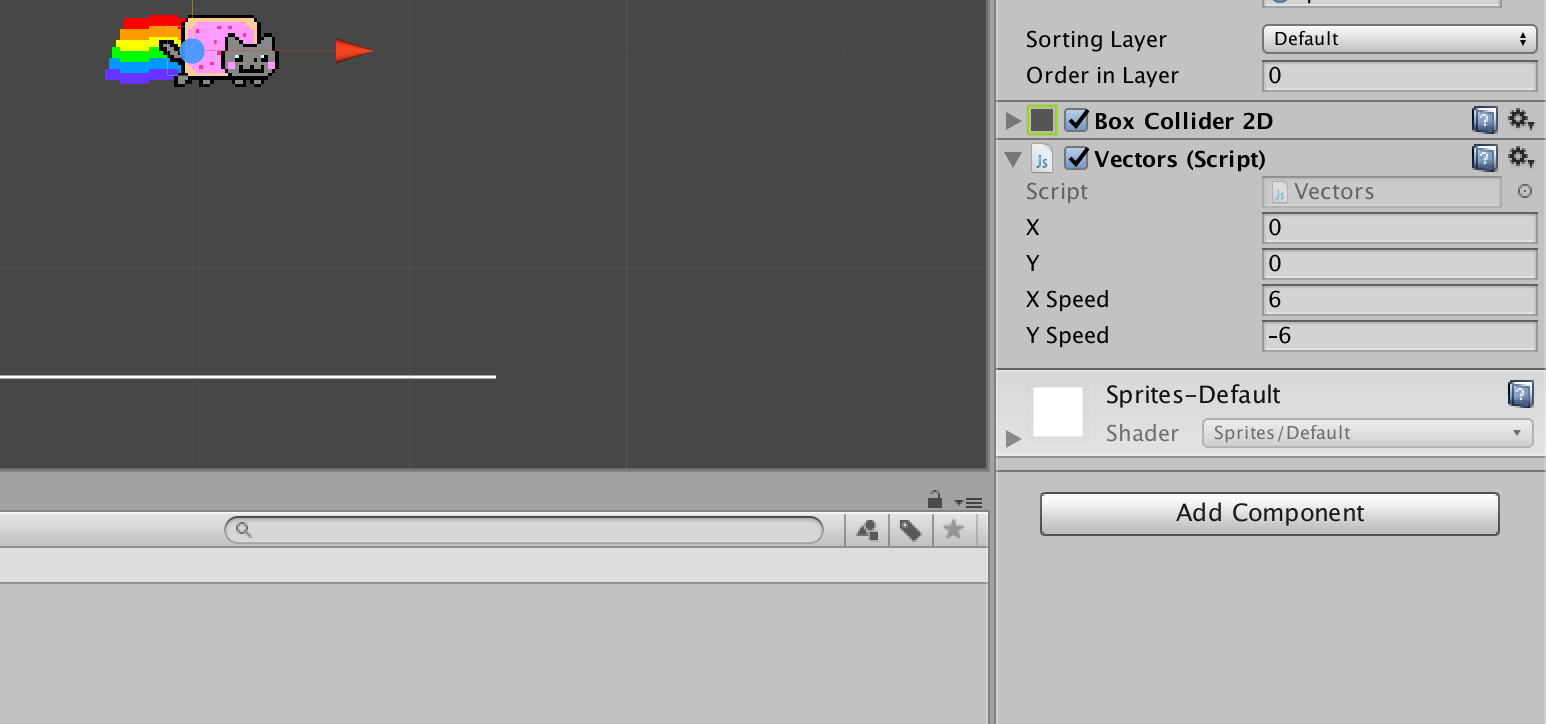
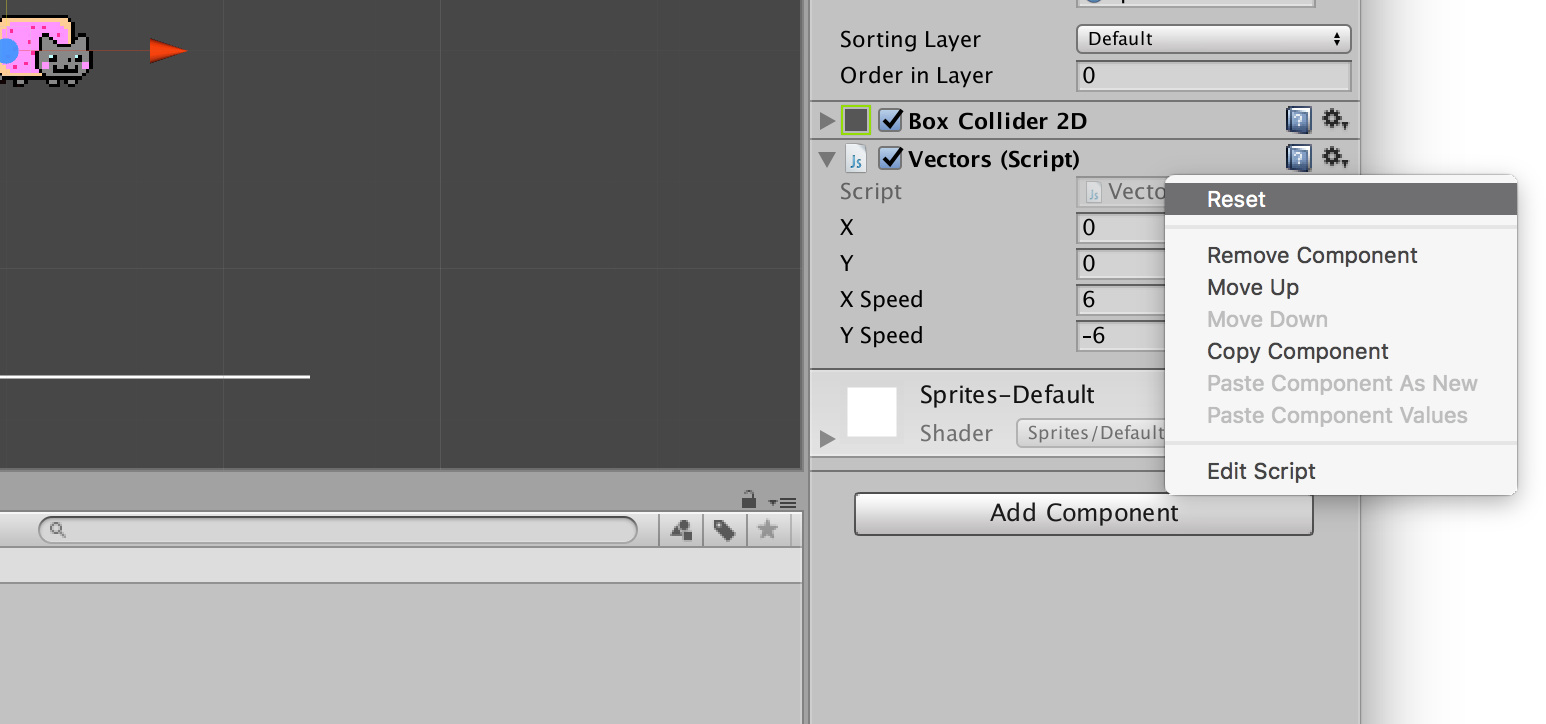
- complete unity vectors part 1 post

diff --git a/_posts/2017-06-20-an_introduction_to_vectors_using_unity--part_1.md b/_posts/2017-06-20-an_introduction_to_vectors_using_unity--part_1.md
@@ -8,11 +8,11 @@ categories: code physics unity
 <!-- unityscript error highlight conceal -->
 <style> .err {background-color: transparent !important} </style>
 
-Firstly: this post looks at vectors, *as in physics*, otherwise referred to as *Euclidean vectors* (not scalable graphics). Unity includes classes for dealing with 2- and 3-dimensional vectors, but the purpose of this tutorial is to understand vector concepts and math from the bottom up. You will write your own 2D vector code from scratch, and once this is complete, take a look at Unity's built-in vector features.
+Firstly: this post looks at vectors, *as in physics*, otherwise referred to as *Euclidean vectors* (not scalable graphics). Unity includes built-in features for dealing with 2- and 3-dimensional vectors, but the purpose of this tutorial is to understand vector concepts and math from the bottom up. You will write your own 2D vector code from scratch, and once this is complete, take a look at what Unity offers.
 
 ## Introduction
 
-To keep things as simple as possible, this tutorial makes use of *UnityScript*. Anyone familiar with the basics of Unity, and some programming language (be that JavaScript, Python, C#, or something similar) should grasp things just fine. To get started, all you'll need is [Unity](https://unity3d.com/), and:
+To keep things as simple as possible, this tutorial makes use of *UnityScript*. Anyone familiar with the basics of Unity, and some programming language (be it JavaScript, Python, C#, or something similar) should grasp things just fine. To get started, all you'll need is [Unity](https://unity3d.com/), and:
 
 * this <a href='{{ site.url }}/img/aitvuup1/nyan_cat.png' download>Nyan Cat graphic</a>;
 * this [font, named Wendy](http://www.dafont.com/wendy.font).
@@ -25,7 +25,7 @@ Begin by creating a new **2D** project in Unity:
   <img src="{{ site.url }}/img/aitvuup1/00-new-document.png" class="fullwidth" />
 </figure>
 
-Import the [nyan_cat.png]({{ site.url }}/img/aitvuup1/nyan_cat.png) graphic (you can do this by dragging the file into the **Assets** panel); then using the **Inspector** panel on the right, set the graphic's *Pixels per Unit* to `30` and *Filter Mode* to `Point`, and click **Apply**:
+Import the [nyan_cat.png]({{ site.url }}/img/aitvuup1/nyan_cat.png) graphic (you can do this by dragging the file into the **Assets** panel); then using the **Inspector** panel on the right, set the graphic's *Pixels per Unit* to `30` and *Filter Mode* to `Point`. Click **Apply** when you're done:
 
 <figure>
   <img src="{{ site.url }}/img/aitvuup1/01-nyan-cat-settings.png" class="fullwidth" />
@@ -37,7 +37,7 @@ Now add (drag) `nyan_cat` to the **Hierarchy** panel (at the top-left).
   <img src="{{ site.url }}/img/aitvuup1/02-nyan-cat-hierarchy.png" class="fullwidth" />
 </figure>
 
-Create a new sprite by right-clicking in the **Assets** panel and selecting **Create > Sprites > Square**. Drag this new square into the **Hierarchy** panel and name the instance "platform".
+Create a new sprite by right-clicking in the **Assets** panel and selecting **Create > Sprites > Square**. Drag this new square into the **Hierarchy** panel and name the instance "platform":
 
 <figure>
   <img src="{{ site.url }}/img/aitvuup1/03-create-platform.png" class="fullwidth" />
@@ -50,7 +50,7 @@ Scale and position the platform as per the screenshot below:
   <figcaption>Note that you'll need to be in <b>Scene</b> view to use the visual move & scale tools.</figcaption>
 </figure>
 
-At this point you can test the 'game' (using the play button), but nothing will happen. Nyan Cat and the platform remain suspended, seemingly frozen in the positions you have placed them.
+At this point you can test the scene (using the play button). You'll find that Nyan Cat and the platform remain suspended, seemingly frozen in the positions you have placed them.
 
 With your `nyan_cat` instance selected, using the **Add Component** button in the **Inspector** panel, select **Physics 2D > Rigidbody 2D**:
 
@@ -64,7 +64,7 @@ If you test/play the scene again, Nyan Cat will drop, falling straight through t
   <img src="{{ site.url }}/img/aitvuup1/06-platform-constraints.png" class="fullwidth" />
 </figure>
 
-Finally, add a **Box Collider 2D** component (also found within Physics 2D) to *both Nyan Cat and the platform*, so that they behave like 'solid' objects:
+Finally, add a **Box Collider 2D** component (also found within Physics 2D) to *both Nyan Cat and the platform* so that they behave like 'solid' objects:
 
 <figure>
   <img src="{{ site.url }}/img/aitvuup1/07-add-box-collider.png" class="fullwidth" />
@@ -75,17 +75,17 @@ Play the scene. Because of the Box Colliders, Nyan Cat and the platform are are 
 
 ## Adjusting the Scale for Easier Math
 
-Before getting into the code and mathy stuff, it's best to scale everything in order to make the numbers a bit more sane to work with. This step will allow you to avoid lengthy decimals in favour of single- and double-digit integers. You normally wouldn't scale things so dramatically -- and it'll incur some odd side-effects, as you'll come to see -- but understanding vectors will be easier using values like `[1, 5]` instead of `[0.0025, 0.0125]`.
+Before getting into the code and math stuff, it's best to scale everything in order to make the numbers a bit more sane to work with. This step will allow you to avoid lengthy decimals in favour of single- and double-digit integers. You normally wouldn't scale things so dramatically -- and it'll incur some odd side-effects, as you'll come to see -- but understanding vectors will be easier using values like `[1, 5]` instead of `[0.0025, 0.0125]`.
 
-Make the necessary adjustments to the following Hierarchy objects:
+Make the necessary adjustments to the following objects in the Hierarchy:
 
-* "Main Camera" -- in the **Camera** component, set the *Background* (Hex Colour) field to `00447700`, and the *Size* field to `2000`.
+* "Main Camera" -- in the **Camera** component, set the *Background* (Hex Colour) field to `00447700`, and the *Size* field to `2000`
 
 <figure>
   <img src="{{ site.url }}/img/aitvuup1/08-camera-settings.png" class="fullwidth" />
 </figure>
 
-* "nyan_cat" -- in the **Transform** component, set both the *X* and *Y* *Scale* to `500`.
+* "nyan_cat" -- in the **Transform** component, set both the *X* and *Y* *Scale* to `500`
 
 <figure>
   <img src="{{ site.url }}/img/aitvuup1/09-nyan-cat-scale.png" class="fullwidth" />
@@ -104,7 +104,7 @@ If you play the scene now, it should look somethig like this:
   <img src="{{ site.url }}/img/aitvuup1/11-test-scale.png" class="fullwidth" />
 </figure>
 
-However, everything now appears to be moving far more slowly, even though Nyan Cat is actually moving at the same speed as before. This is because (s)he is now 500 times larger -- about 500 m<sup>3</sup> in size in Unity physics! So, what was a cat falling a few meters, is something more like a massive meteor falling a few meters. In order to avoid your view being completely engulfed by Nyan Cat, you're now viewing things from far further away, and as a result, everything appears to be moving slower ... kind of like how an aeroplane high overhead crosses your field of view slower than a mobility scooter.
+However, everything now appears to be moving far more slowly, even though Nyan Cat is actually moving at the same speed as before. This is because (s)he is now 500 times larger -- about 500 m<sup>3</sup> in Unity physics! So, what was a cat falling a few meters, is something more like a massive meteor falling a few meters. In order to avoid your view being completely engulfed by Nyan Cat, you're now viewing things from far further away, and as a result, everything appears to be moving slower ... kind of like how an aeroplane high overhead crosses your field of view slower than a mobility scooter.
 
 Remember, though, this scaling makes the math simpler, so it's all relative and won't actually make any difference when you start writing some code to replace Unity's physics with your own; and on that point, the final step here is to remove the **Rigidbody 2D** and **Box Collider 2D** components from both Nyan Cat and the platform. You can do this using the menu under the cog icon:
 
@@ -141,9 +141,7 @@ function Update () {
 }
 {% endhighlight %}
 
-Test (play) to see if the code works.
-
-Now that Nyan Cat is falling, add some lateral movement:
+Test (play) to see if the code works. Now that Nyan Cat is falling, add some lateral movement using the same approach:
 
 {% highlight js %}
 ...
@@ -162,7 +160,7 @@ function Update () {
 }
 {% endhighlight %}
 
-You can edit the variables in the code, but Unity's Inspector makes things easier for you (and can be edited during play):
+You can experiment with the *X/Y Speed* values, but rather than editing variables in the code, use the Inspector as it allows you edit and monitor variables (even during play). To revert to the values defined in your code, use the *Reset* option under the cog menu:
 
 <figure>
   <img src="{{ site.url }}/img/aitvuup1/14-inspector-variables.png" class="fullwidth" />
@@ -170,17 +168,17 @@ You can edit the variables in the code, but Unity's Inspector makes things easie
 
 ## Adding the HUD
 
-While you can watch the Inspector to track any variable values, a Heads-Up Display adds a nice touch. Add the Wendy ([wendy.ttf](http://www.dafont.com/wendy.font)) file to your Assets. You can simply drag it into Unity. Then, from the menu bar, select **GameObject > UI > Text** to create a new Text component. Using the Inspector:
+While you can watch the Inspector to track any variable values, a Heads-Up Display adds a nice touch. Add the Wendy ([wendy.ttf](http://www.dafont.com/wendy.font)) file to your Assets. You can simply drag it into Unity. Then, from the menu bar, select **GameObject > UI > Text** to create a new Text component. Now, using the Inspector:
 
-* enter into the *Text* field: `wind: 5`, and on a new line, `gravity: -9.8`;
-* set the *Font* to `Wendy`, *Font Size* to `20`, *Vertical Overflow* to `Overflow`, and *Color* to white;
-* then adjust *width/height/PosX/PosY* under **Rect Transform** to place the HUD at top-left.
+* enter into the *Text* field: `wind: 5`, and on a new line, `gravity: -9.8`
+* set the *Font* to `Wendy`, *Font Size* to `20`, *Vertical Overflow* to `Overflow`, and *Color* to white
+* then adjust *width/height/PosX/PosY* under **Rect Transform** to place the HUD at top-left
 
 <figure>
   <img src="{{ site.url }}/img/aitvuup1/15-add-hud.png" class="fullwidth" />
 </figure>
 
-You'll soon control the HUD output dynamically, but for now, the HUD text simply matches the values declared in your code. The next step is to rewrite the code using a vector approach.
+In time you'll control the HUD output dynamically, but for now, the HUD text simply matches the values declared in your code. The next step is to rewrite the code using a vector approach.
 
 ## Vectors -- The Fundamentals
 
@@ -193,7 +191,7 @@ According to [Wikipedia](https://en.wikipedia.org/wiki/Euclidean_vector), a Eucl
 
 Nyan Cat has moved from position **A** to **B**, covering a distance of 10 units in the process. This distance can be referred to as a *magnitude*. It is a *scalar* value that represents quantity of 10 units. Here's the thing, though: the magnitude gives no indication of which direction Nyan Cat has travelled, you just know that it is rightward from what you've gleaned visually.
 
-Unlike scalars, *vectors* represent multiple quantities -- and are thus able to represent both a magnitude and direction. Consider this example:
+Scalars represent a single value, but *vectors* represent multiple values -- and are thus able to represent both a magnitude and direction. Consider this example:
 
 <figure>
   <img src="{{ site.url }}/img/aitvuup1/17-vector.svg" />
@@ -204,7 +202,7 @@ This example can be expressed as a vector using the following notation:
 
 <code>v&#8407; = (10, 4)</code>
 
-Note how an arrow is placed above the letter (a *v* in this case) to indicate it is a vector. You can perform various arithmetic using vectors. For example, additions are calculated by adding the x and y values of each vector:  
+Note how an arrow is placed above the letter (a *v* in this case) to indicate it is a vector quantity. You can perform various types of arithmetic using vectors. For example, additions are calculated by adding the horizontal and vertical values of each vector:  
 
 <code>a&#8407; = (4, 1)</code>  
 <code>b&#8407; = (6, 3)</code>  
@@ -217,11 +215,11 @@ Therefore, <code>c&#8407;</code> is equal to `(10, 4)`:
   <figcaption><code>(4, 1) + (6, 3) = (10, 4)</code></figcaption>
 </figure>
 
-Using this vector you can determine that the direction is up- and (more heavily so) right-ward. What's more, you can use the Pythagorean Theorem to calculate the magnitude, which forms the hypotenuse of a right-angled triangle. In Excel formula notation -- which is easier to express on a web-page -- the magnitude in this instance would be:  
+Using this vector you can determine that the direction is up- and (more heavily so) right-ward. Moreover, you can use the Pythagorean Theorem to calculate the magnitude. In Excel formula notation -- which is easier to express on a web-page -- the magnitude calculation in this instance would be:  
 `SQRT( (10)^2 + (4)^2 )`  
 which equals **10.77**.
 
-These vector concepts can be applied using programming code, where one can better understand and appreciate the practical implications.
+These vector concepts will now be applied using programming code.
 
 ## Coding Movement Using Vectors
 
@@ -238,7 +236,7 @@ class Vector {
 ...
 {% endhighlight %}
 
-If you're unfamiliar with classes, think of them as a *data type* of your own definition and design. There are a number of data types with which you are already familiar, such as `float`, `int`, or `String`. With this new class, you've created your own `Vector` data type, which means you can now go ahead and create two new variables of this type:
+If you're unfamiliar with classes, think of them as a *data type* of your own definition and design. There are a number of data types with which you are already familiar, such as `float`, `int`, or `String`. With this new class, you've created your own `Vector` data type, which allows you to declare your gravity and wind vectors:
 
 {% highlight js %}
 #pragma strict
@@ -254,16 +252,17 @@ var wind:Vector;
 ...
 {% endhighlight %}
 
-Your new vector variables will appear in the **Inpector** panel:
+Your new vector variables will appear in the Inspector panel, with each comprising of an *X* and *Y* value:
 
 <figure>
   <img src="{{ site.url }}/img/aitvuup1/19-vector-variables.png" class="fullwidth" />
 </figure>
 
-These new *Gravity* and *Wind* variables, of course, have no effect on Nyan Cat's movement, as this is still controlled using the variables *X*, *Y*, *X Speed*, and *Y Speed*. Replace these with a new velocity vector (to which you will soon add the various forces acting on Nyan cat) and location vector:
+These new *Gravity* and *Wind* variables, of course, have no effect on Nyan Cat's movement, as this is still controlled using the original variables. Replace them with a new `velocity` (to which you will soon add the various forces acting on Nyan cat) and `location` vector:
 
 {% highlight js %}
 ...
+
 // replace this
 //var x:float = 0;
 //var y:float = 0;
@@ -273,10 +272,11 @@ These new *Gravity* and *Wind* variables, of course, have no effect on Nyan Cat'
 // with this
 var velocity:Vector;
 var location:Vector;
+
 ...
 {% endhighlight %}
 
-To combine the effects of these forces, create a new function for adding (2D) vectors:
+To combine the effects of these forces, create a new function for adding vectors:
 
 {% highlight js %}
 ...
@@ -292,11 +292,11 @@ function add(v1:Vector, v2:Vector) {
 ...
 {% endhighlight %}
 
-Mathematically notated, you will now use this function to perform the following arithmetic (where *v* is velocity; *g* is gravity; and *w* is wind):
+Mathematically notated, you will now use this function to perform the following arithmetic (where *v* is velocity, *g* is gravity, and *w* is wind):
 
 <code>v&#8407; = g&#8407; + w&#8407;</code>  
 
-However, this must occur with each new frame, so the `Update` function must be overhauled to include the `add` function, along with new `velocity` and `location` variables:
+However, this must occur with each new frame, so the `Update` function must be overhauled to include the `add` function, which in turn computes the values of the `velocity` and `location` variables:
 
 {% highlight js %}
 ...
@@ -315,6 +315,7 @@ Calibrate your new *Gravity* and *Wind* variables using the Inspector, then test
 
 <figure>
   <img src="{{ site.url }}/img/aitvuup1/20-calibrate-variables.png" class="fullwidth" />
+  <figcaption>Gravity Y = -9.8; Wind X = 5</figcaption>
 </figure>
 
 ## More Vector Arithmetic
@@ -335,9 +336,9 @@ Consider a scenario where Nyan Cat and *nayN Cat* are cruising together through 
 <code>offset = Nyan Cat - nyaN Cat</code>  
 <code>&#8756; offset = (7, 2) - (10, -2)</code>
 
-Therefore, nayN's drive needs to be re-calibrated using an adjustment vector of `(-3, 4)`.
+Therefore, nayN's drive needs to be re-calibrated using an adjustment vector of `(-3, 4)`. Gauged by the solid grey, arrow-capped line in the illustration above, one can confirm this is correct.
 
-As subtraction is the opposite of addition, you can create a subtract function by copy/pasting the existing `add` function, renaming it `subtract`, and switching the `+` to a `-` sign:
+As subtraction is the opposite of addition, you can create a subtract function by copy/pasting the existing `add` function, renaming it `subtract`, and switching any `+` signs to `-` signs:
 
 {% highlight js %}
 ...
@@ -354,14 +355,14 @@ As subtraction is the opposite of addition, you can create a subtract function b
 
 ### Multiplying Vectors
 
-You probably understand multiplication is a series of additions, and the same is true for vector multiplication:
+You probably understand multiplication as a series of additions, and the same is true for vector multiplication:
 
 <figure>
  <img src="{{ site.url }}/img/aitvuup1/22-vector-multiply.svg" />
  <figcaption><code>(3, 2) × 3 is equal to (3, 2) + (3, 2) + (3, 2)</code></figcaption>
 </figure>
 
-Add a `multiply` function to your code. Note how both the *x* and *y* values are multiplied by the same `float` value:
+Add this `multiply` function to your code, and note how both the *x* and *y* values are multiplied by the same `float` value:
 
 {% highlight js %}
  ...
@@ -378,14 +379,14 @@ Add a `multiply` function to your code. Note how both the *x* and *y* values are
 
 ### Dividing Vectors
 
-A divide function is not essential, as you could use a decimal fraction to perform a division operation using your `multiply` function -- for example:  
+A divide function is not essential, as you could perform a division operation using a decimal fraction and your `multiply` function -- for example:  
 ``multiply(gravity, 0.5) // divide by 2``
 
 However, a designated divide function should make your code easier to read, so it's best to add one. Simply copy/paste the existing `multiply` function, rename it `divide`, and then switch the `*` signs to `/` signs.
 
 ## Adding Key Input
 
-Key input will also translate into a force, which as you now know, is best represented as a vector. Add a new `input` variable and modify your `Update` function accordingly:
+Key input will translate into a force, which as you now know, is best represented as a vector. Add a new `input` variable and modify your `Update` function accordingly:
 
 {% highlight js %}
 ...
@@ -410,14 +411,14 @@ To give the key input more power, each axis value is multiplied by *12*. `Input.
 
 ## Vector Magnitude
 
-While holding the right key, Nyan Cat's `input` vector is `(12, 0)`. But, consider that while holding *both right and up*, it's `(12, 12)`. This means that Nyan Cat is pushed 12 units both horizontally and vertically, meaning (s)he is able travel faster diagonally, than horizontally or vertically:
+While holding the right key, Nyan Cat's `input` vector is `(12, 0)`. But, consider that while holding *both right and up*, it's `(12, 12)`. This means that Nyan Cat is pushed 12 units both horizontally and vertically, meaning (s)he is able travel faster diagonally:
 
 <figure>
   <img src="{{ site.url }}/img/aitvuup1/23-vector-diagonal.svg" />
   <figcaption>"The square of the hypotenuse (the side opposite the right angle) is equal to the sum of the squares of the other two sides."</figcaption>
 </figure>
 
-To limit the input force to 12 in every direction, first add a function for calculating *magnitude* (the length of a vector). This is an implementation of the Pythagorean Theorem used in the illustration above. For the purposes of your code, it's:
+To limit the input force to 12 in every direction, first add a function for calculating *magnitude* (the length of a vector). This, effectively, is a code implementation of the same Pythagorean Theorem used in the illustration above:
 
 {% highlight js %}
 ...
@@ -430,7 +431,7 @@ function magnitude(v:Vector) {
 ...
 {% endhighlight %}
 
-Using the new magnitude function, add a `Debug.Log` to measure the input:
+Now using this new magnitude function, add a `Debug.Log` to measure and log the input magnitude:
 
 {% highlight js %}
 ...
@@ -444,39 +445,22 @@ function Update () {
 
 {% endhighlight %}
 
-Save your code, test, and observe the **Console** output. Note how the maximum magnitude can reach ~*16.97* with diagonal input, yet never exceeds *12* with directly vertical or horizontal input:
+Save your code, test, and observe the **Console** output. Note how the magnitude can reach ~*16.97* with diagonal input, yet never exceeds *12* with directly vertical or horizontal input:
 
 <figure>
   <img src="{{ site.url }}/img/aitvuup1/24-log-magnitude.png" class="fullwidth" />
 </figure>
 
+Restricting the magnitude to 12 in every direction requires *normalizing* the vector first, but this has been left for part 2 of this tutorial.
 
+## Part 2 -- Coming Soon ...
 
-
-
-
-
-
-
-
-
-
-
-
-
-
-
-* source code
-
-## Further Reading
-
-Although [Tanner Helland's blog post]( http://www.tannerhelland.com/3643/grayscale-image-algorithm-vb6/) on the topic.
+The second and final part of this series covers normalizing vectors, dynamic HUD read-outs, coding additional physics (acceleration & friction), and concludes with the Unity's built-in vector implementations.
 
 ## References
 
-https://www.khanacademy.org/math/precalculus/vectors-precalc
-
+* https://khanacademy.org/math/precalculus/vectors-precalc
 * http://natureofcode.com/book/chapter-1-vectors/
 * http://natureofcode.com/book/chapter-2-forces/
 * https://unity3d.com/learn/tutorials/topics/scripting/vector-maths
-... Nyan Cat ...
+* https://youtube.com/watch?v=QH2-TGUlwu4

diff --git a/_posts/2018-01-01-an_introduction_to_vectors_using_unity--part_2.md b/_posts/2018-01-01-an_introduction_to_vectors_using_unity--part_2.md
@@ -1,0 +1,35 @@
+---
+layout: post
+comments: true
+title: "An Introduction to Vectors Using Unity -- part 1"
+categories: code physics unity
+---
+
+<!-- unityscript error highlight conceal -->
+<style> .err {background-color: transparent !important} </style>
+
+Firstly: this post looks at vectors, *as in physics*, otherwise referred to as *Euclidean vectors* (not scalable graphics). Unity includes built-in features for dealing with 2- and 3-dimensional vectors, but the purpose of this tutorial is to understand vector concepts and math from the bottom up. You will write your own 2D vector code from scratch, and once this is complete, take a look at what Unity offers.
+
+## Introduction
+
+To keep things as simple as possible, this tutorial makes use of *UnityScript*. Anyone familiar with the basics of Unity, and some programming language (be it JavaScript, Python, C#, or something similar) should grasp things just fine. To get started, all you'll need is [Unity](https://unity3d.com/), and:
+
+* this <a href='{{ site.url }}/img/aitvuup1/nyan_cat.png' download>Nyan Cat graphic</a>;
+* this [font, named Wendy](http://www.dafont.com/wendy.font).
+
+## Creating a New Document
+
+...
+
+## Further Reading
+
+Nature of code ...
+
+## References
+
+https://www.khanacademy.org/math/precalculus/vectors-precalc
+
+* http://natureofcode.com/book/chapter-1-vectors/
+* http://natureofcode.com/book/chapter-2-forces/
+* https://unity3d.com/learn/tutorials/topics/scripting/vector-maths
+... Nyan Cat ...
